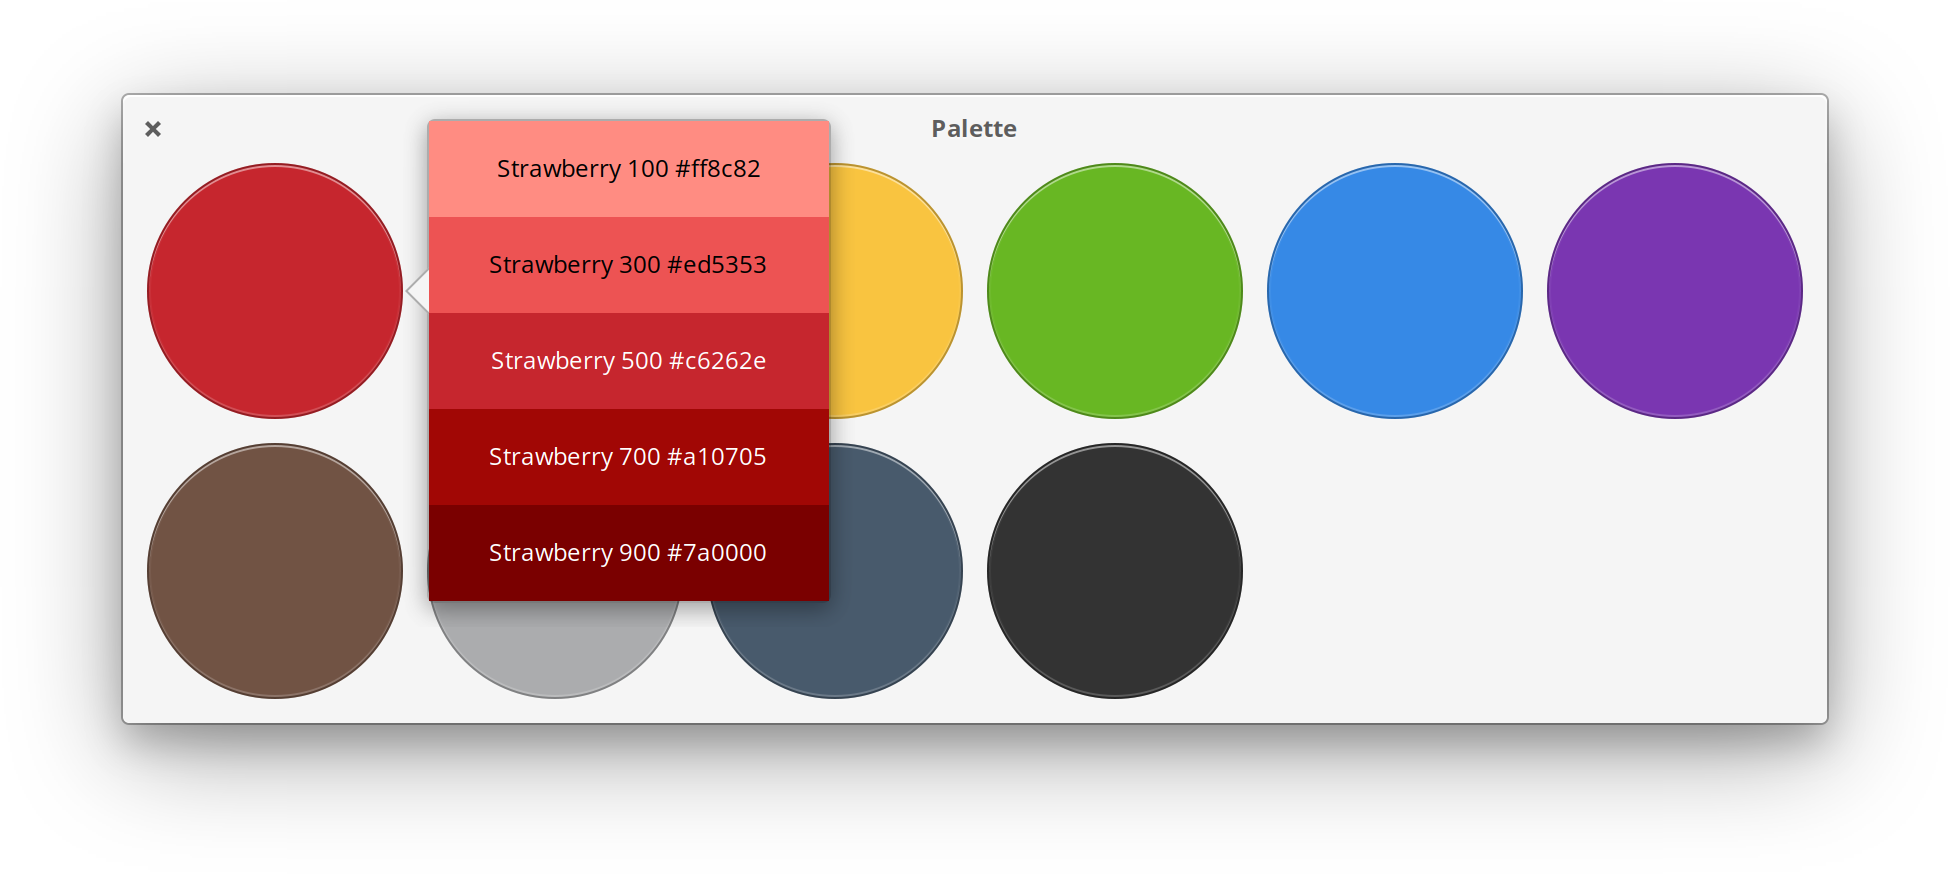
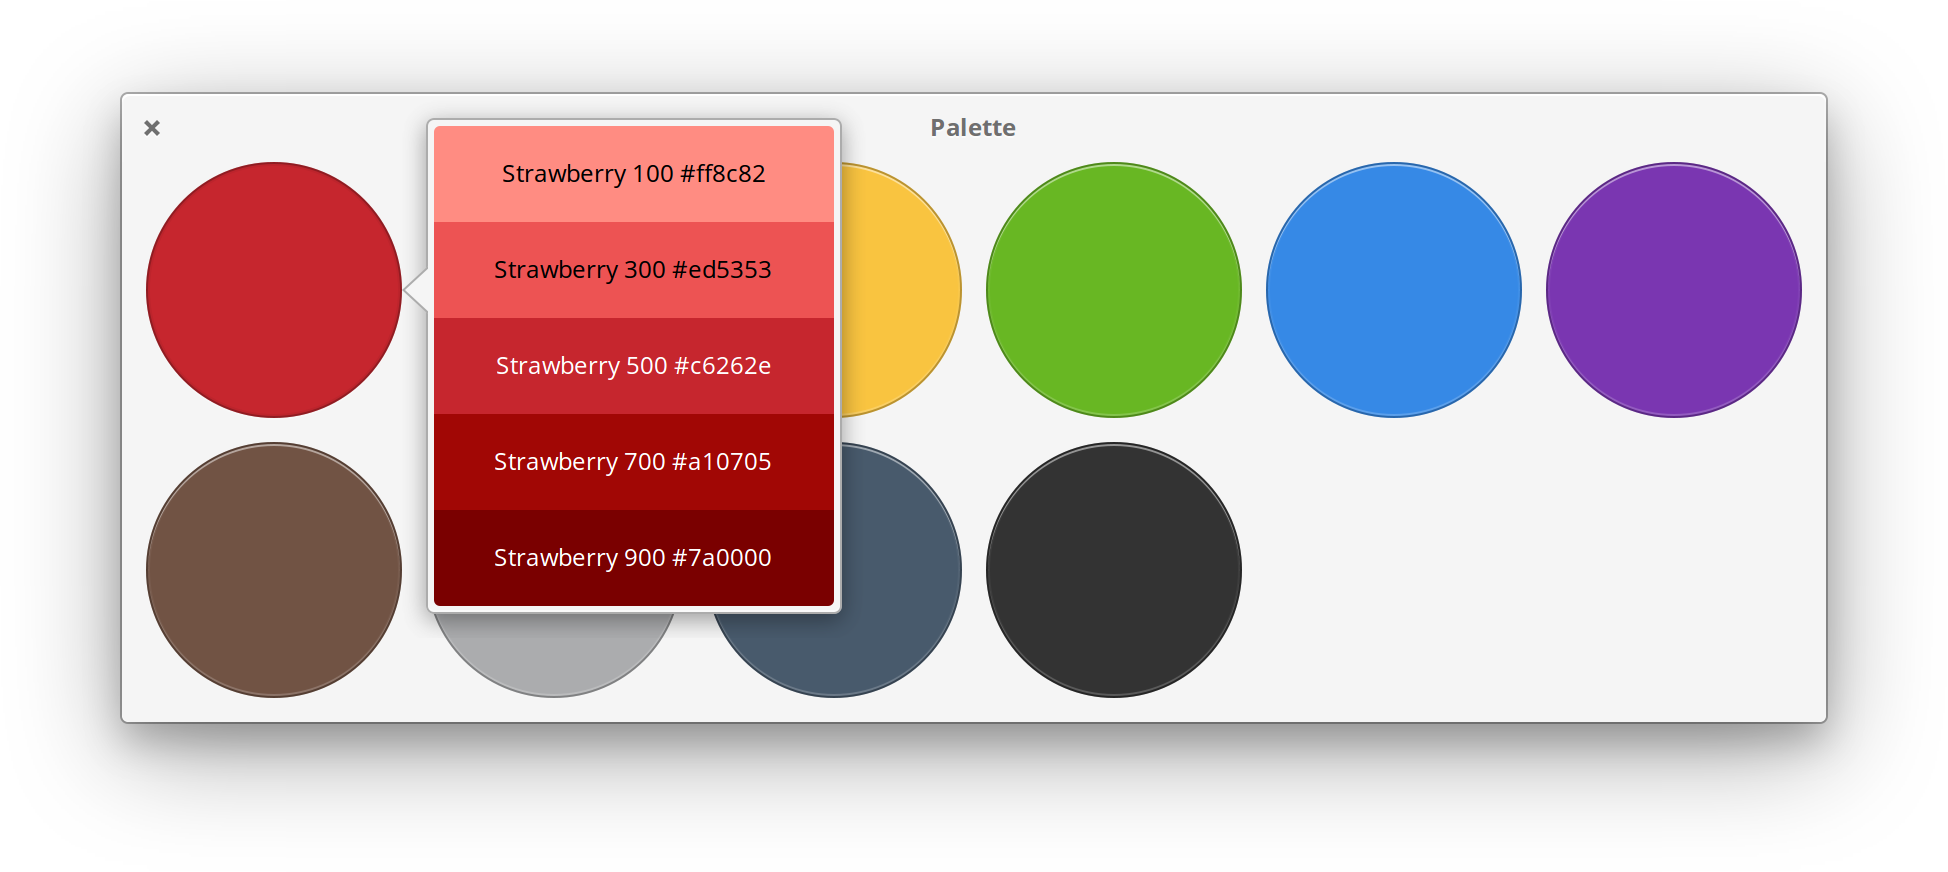
New popover style

diff --git a/data/Application.css b/data/Application.css
@@ -379,6 +379,12 @@ button.circular,
     color: transparent;
 }
 
+popover,
+.popover {
+    background: @theme_bg_color;
+    padding: 3px;
+}
+
 popover button,
 .popover .button {
 	border: none;
@@ -389,13 +395,13 @@ popover button,
 
 popover button:first-child,
 .popover .button:first-child {
-    border-top-left-radius: 2.5px;
-    border-top-right-radius: 2.5px;
+    border-top-left-radius: 3px;
+    border-top-right-radius: 3px;
 }
 
 popover button:last-child,
 .popover .button:last-child {
-    border-bottom-left-radius: 2.5px;
-    border-bottom-right-radius: 2.5px;
+    border-bottom-left-radius: 3px;
+    border-bottom-right-radius: 3px;
 }
 
